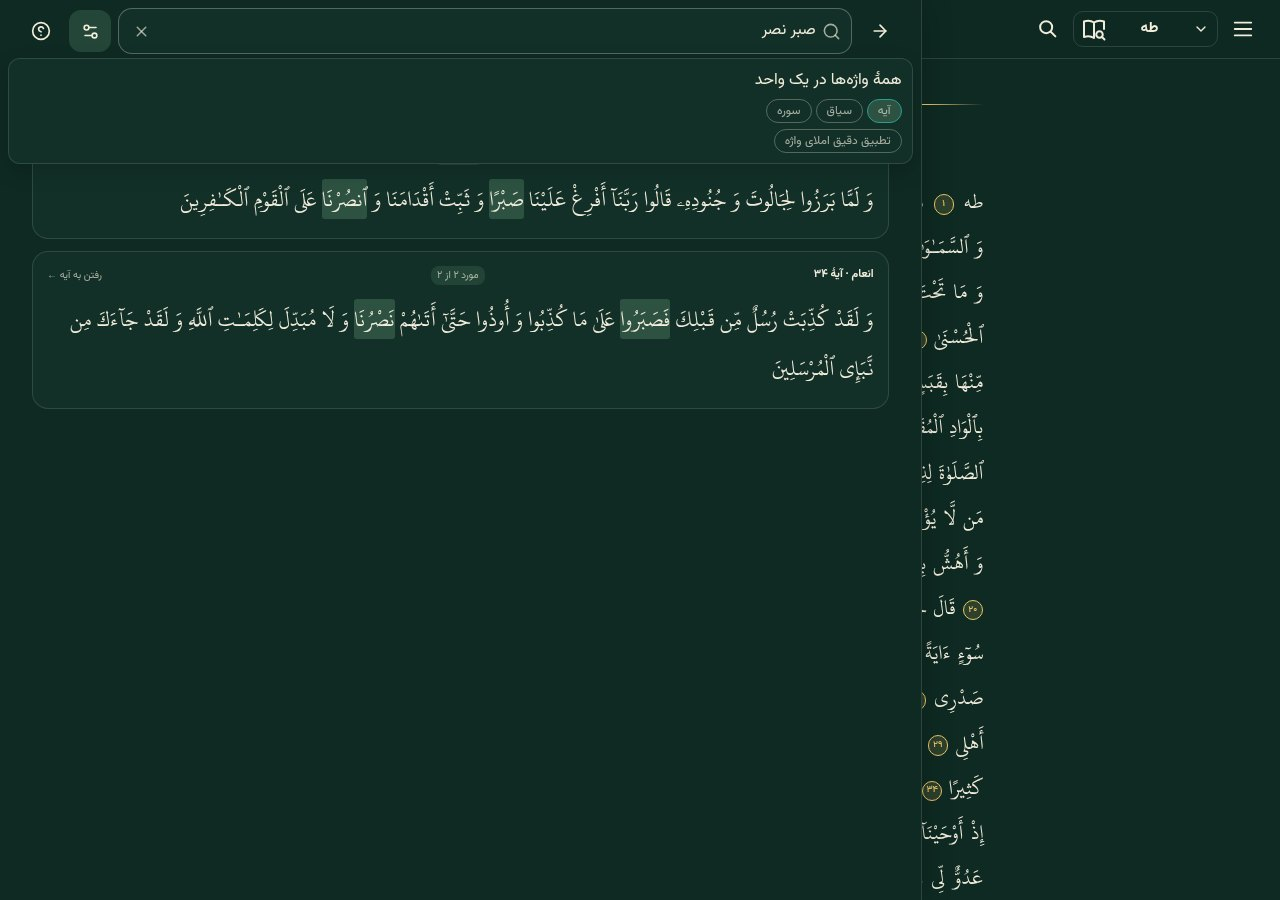
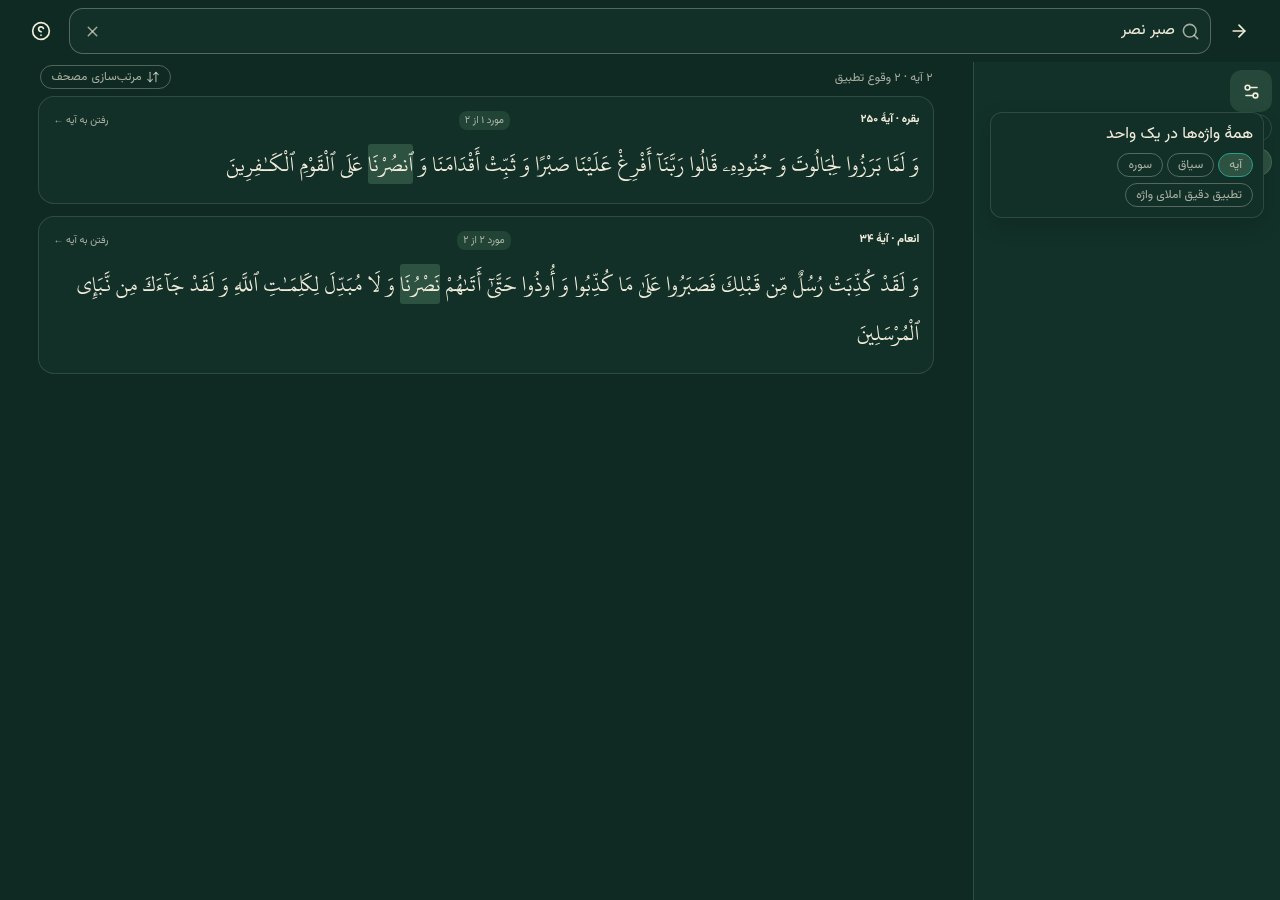
Refresh review images for the wide search layout

diff --git a/docs/search-workspace-review.md b/docs/search-workspace-review.md
@@ -1,6 +1,6 @@
 # Search workspace review
 
-This branch starts at beta `0acfff9`. The selected layout uses the existing Mobarak palette, text, chips and result cards. The search dialog docks on the opposite edge from the reader’s existing right-side panels on wide RTL screens. Its research column is selected by a container query on the rendered surface. The same groups collapse inline in narrow space. The dock retains the dialog’s focus management and Back behavior.
+This branch starts at beta `0acfff9`. The selected layout uses the existing Mobarak palette, text, chips and result cards. The wide search workspace replaces the reading surface. Results take the main area and the right panel contains settings and research tools. A resize observer selects the layout from the actual search surface width. The same groups collapse inline in narrow space. The search surface retains the dialog’s focus management and Back behavior.
 
 ## UI review
 
@@ -20,7 +20,7 @@ Relaxed spelling tolerates the documented Persian/Arabic forms, with narrow alia
 
 ## Before and after
 
-Actual browser captures use the same query on each surface. The baseline is the exact beta commit with the three existing search flags enabled so its advanced interface can be compared. The after captures use the new branch's production build.
+Actual browser captures use the same query on each surface. The baseline is the exact beta commit with the three existing search flags enabled so its advanced interface can be compared. The narrow baseline comparison uses the branch’s production build. The updated desktop, tablet and 390 px light captures show the corrected layout in the running browser.
 
 | Width | Light before / after | Dark before / after |
 | --- | --- | --- |
@@ -40,5 +40,6 @@ Actual browser captures use the same query on each surface. The baseline is the 
 - Beta baseline: 248 unit tests, TypeScript and the production build passed. Lint had 18 errors and one warning.
 - New branch: 252 unit tests passed, TypeScript passed, and the production build passed. Lint reported the same 18 errors and one warning. Local exhaustive browser passes were subject to runner timeouts under concurrent builds.
 - GitHub Actions completed the Phase 2 and Phase 3 Playwright jobs, including phone, desktop and offline coverage. See the [regression workflow](https://github.com/MohsenIT/mobarak/actions/runs/45541337241) for the remaining reader matrix status.
+- The targeted Playwright regression passed for the corrected desktop layout and its transition to the narrow layout. TypeScript passed on the same application commit.
 - Real browser checks also verified current-surah scope and the root and lemma search for `دین ملک`, including both highlights at Yusuf 76.
 - The Vercel preview requires existing team access. The beta branch and PR #22 were left in place.
